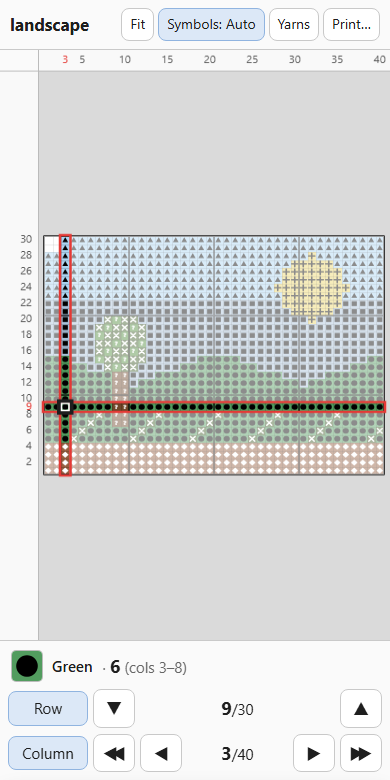
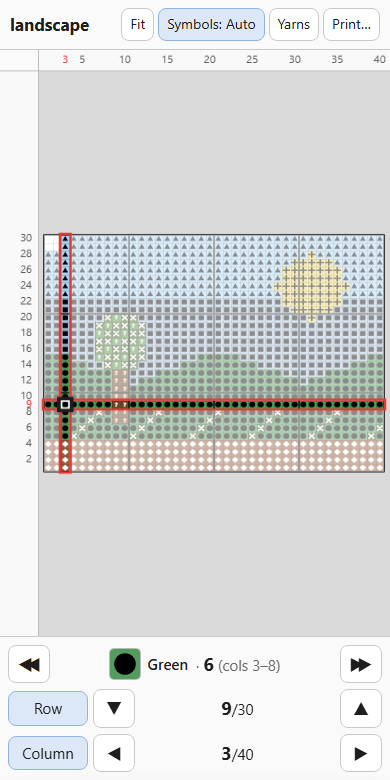
Pattern: run jumps move beside the cell readout; disabled buttons look disabled
◀◀ ▶▶ act on the cell, not the column, so they now flank the readout and only
appear while both trackers are on; the two tracker bars are the same shape.
Disabled buttons fade (the custom button style had hidden the browser's
disabled look, so an off tracker's arrows looked live).

diff --git a/src/latchwork/pattern_template.html b/src/latchwork/pattern_template.html
@@ -18,6 +18,8 @@
     border-radius: 8px; padding: 7px 12px; cursor: pointer; }
   button[aria-pressed="true"] { background: #DCE8F7; border-color: #90B4E0; }
   button:active { background: #eee; }
+  button:disabled { opacity: .35; cursor: default; }
+  button:disabled:active { background: #fff; }
 
   #bar { grid-area: bar; display: flex; align-items: center; gap: 10px; flex-wrap: wrap;
     padding: 8px 12px; background: var(--panel); border-bottom: 1px solid var(--line); }
@@ -63,8 +65,11 @@
   #rowbar .short { display: none; }
   #rowbar .dbl { letter-spacing: -.42em; margin-right: .42em; }   /* two triangles as one icon */
   /* both trackers on: what's in the tracked cell, and how many of it run to the right */
+  /* both trackers on: the run jumps sit either side of the cell readout */
   #readout { display: none; align-items: center; justify-content: center; gap: 10px;
     font-size: 15px; min-height: 34px; }
+  #readout .cell { display: flex; align-items: center; justify-content: center; gap: 10px;
+    min-width: 0; }
   #readout.on { display: flex; }
   #readout canvas { width: 30px; height: 30px; border-radius: 4px; flex: none;
     box-shadow: 0 0 0 1px rgba(0,0,0,.25); }
@@ -106,7 +111,8 @@
     #rowbar button.toggle { min-width: 80px; }
     #rowbar .long { display: none; }
     #rowbar .short { display: inline; }
-    #readout { justify-content: flex-start; padding: 0 4px; }
+    #readout { justify-content: space-between; gap: 5px; }
+    #readout .cell { flex: 1; gap: 8px; }
   }
   @media (min-width: 821px) { #legendBtn { display: none; } #closeLegend { display: none; } }
   #legendInfo { display: none; padding: 8px 12px; color: var(--muted); font-size: 12.5px;
@@ -159,8 +165,12 @@
 </aside>
 
 <div id="rowbar">
-  <div id="readout"><canvas id="readSw" width="60" height="60"></canvas>
-    <span class="name" id="readName"></span><span class="run" id="readRun"></span></div>
+  <div id="readout">
+    <button id="runBack" class="big" aria-label="Start of this or the previous color run" title="Previous color run"><span class="dbl">◀◀</span></button>
+    <div class="cell"><canvas id="readSw" width="60" height="60"></canvas>
+      <span class="name" id="readName"></span><span class="run" id="readRun"></span></div>
+    <button id="runNext" class="big" aria-label="Next color run" title="Next color run"><span class="dbl">▶▶</span></button>
+  </div>
   <div class="line">
     <button id="rowTrack" class="toggle" aria-pressed="false" title="Highlight one row at a time"><span class="long">Row tracker</span><span class="short">Row</span></button>
     <button id="rowDown" class="big" aria-label="Row down">▼</button>
@@ -169,11 +179,9 @@
   </div>
   <div class="line">
     <button id="colTrack" class="toggle" aria-pressed="false" title="Highlight one column at a time; with the row tracker, read one cell"><span class="long">Column tracker</span><span class="short">Column</span></button>
-    <button id="runBack" class="big" aria-label="Start of this or the previous color run" title="Previous color run"><span class="dbl">◀◀</span></button>
     <button id="colLeft" class="big" aria-label="Column left">◀</button>
     <span class="label" id="colLabel"></span>
     <button id="colRight" class="big" aria-label="Column right">▶</button>
-    <button id="runNext" class="big" aria-label="Next color run" title="Next color run"><span class="dbl">▶▶</span></button>
   </div>
 </div>
 
@@ -596,7 +604,6 @@ function syncTrack() {
   $("rowUp").disabled = $("rowDown").disabled = !state.rowOn;
   $("colLeft").disabled = $("colRight").disabled = !state.colOn;
   const both = state.rowOn && state.colOn;
-  $("runBack").disabled = $("runNext").disabled = !both;   // runs need a row and a column
   $("readout").classList.toggle("on", both);
   if (both) {
     const v = cellAt(state.row, state.col), [, last] = runAt(state.row, state.col);

diff --git a/src/latchwork/help.py b/src/latchwork/help.py
@@ -145,7 +145,7 @@ File → Export pattern (Ctrl+E) writes one self-contained HTML file. Copy it to
 - Symbols button cycles Auto / Always / Off. Auto shows symbols once cells are big enough (about 7 px; zoom in if they're hidden). Always draws them even when tiny. Off hides them.
 - Tap a yarn in the legend to show only that color.
 - Row tracker (▼ ▲) highlights one row; Column tracker (◀ ▶) one column. With both on, the bar above them reads the cell where they cross: its yarn and symbol, and how many of it run to the right ("6 (cols 3–8)").
-- With both on, ◀ ▶ step one cell and wrap to the next row up (or back down) at the ends, since you hook bottom to top, left to right. ◀◀ ▶▶ jump a whole color run instead. Tapping the grid never moves the trackers, so a stray touch can't lose your place.
+- With both on, ◀ ▶ step one cell and wrap to the next row up (or back down) at the ends, since you hook bottom to top, left to right. ◀◀ ▶▶ (either side of the readout, only while both are on) jump a whole color run instead. Tapping the grid never moves the trackers, so a stray touch can't lose your place.
 - Keyboard (computer): ↑ ↓ rows, ← → columns, Shift+← → color runs.
 - Remembered on that device, per pattern: done checkmarks, both trackers (on/off and position) and the Symbols mode. Zoom and the tapped yarn are not.
 - Printing: an overview plus pages of 50 × 70 holes, labelled A1 (bottom-left), A2…
